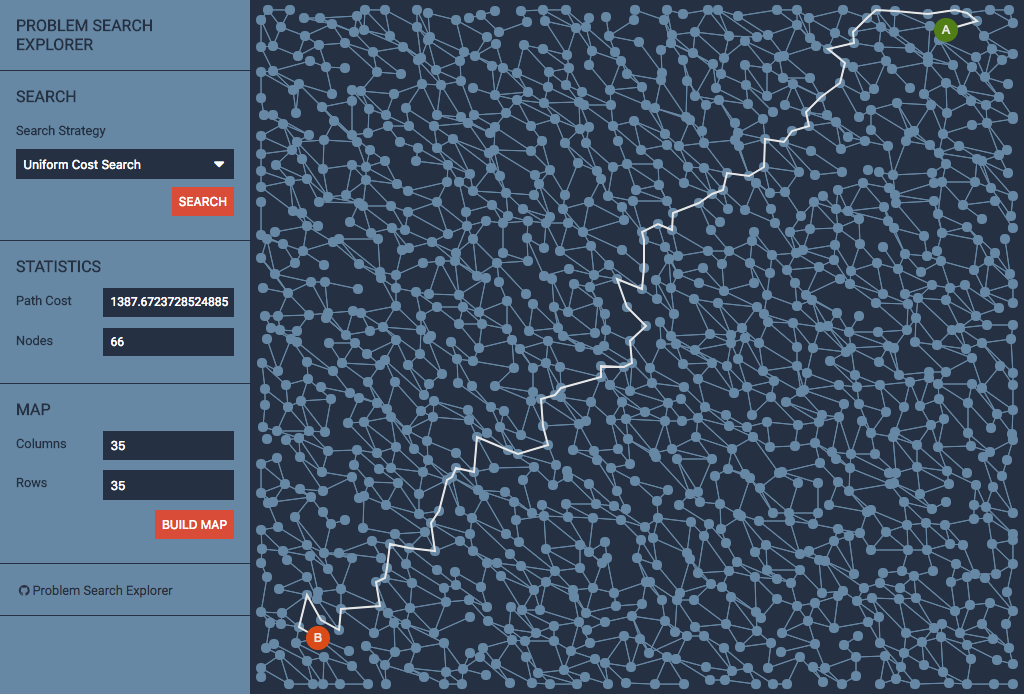
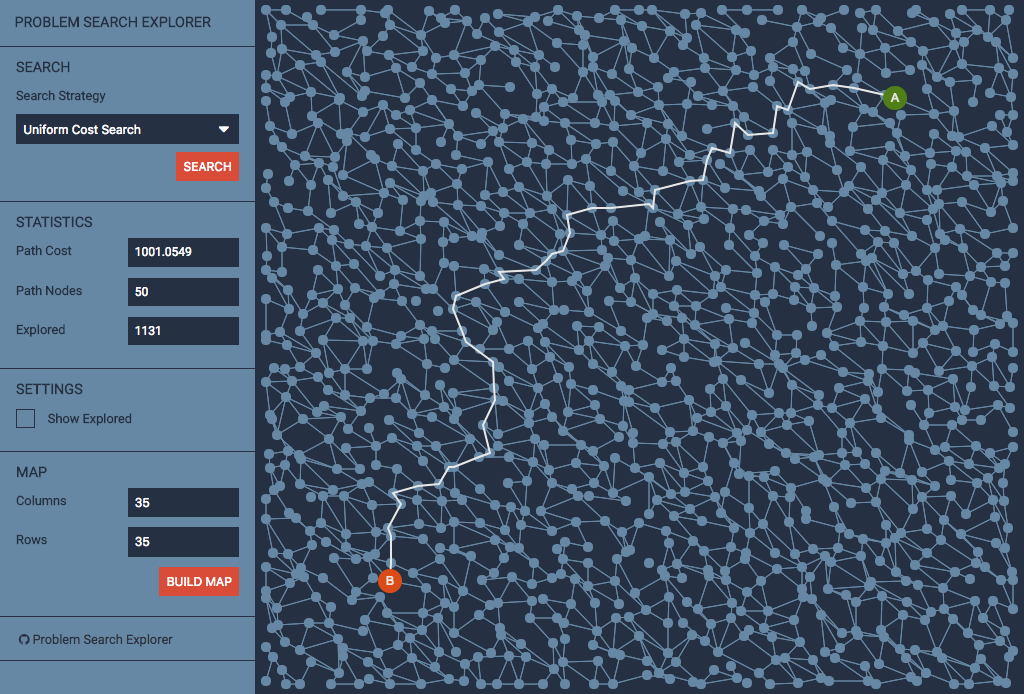
added show explored

diff --git a/src/components/SearchMenu.vue b/src/components/SearchMenu.vue
@@ -1,7 +1,12 @@
 <template>
-    <div id="menu" class="menu">
+    <div id="menu" class="menu" v-bind:class="{ 'menu--closed': isClosed }">
 
-        <h1 class="menu__header">Problem Search Explorer</h1>
+        <h1 class="menu__header">Problem Search Explorer
+            <a href="#" id="openMenu" v-on:click="isClosed = !isClosed">
+                <i class="fa fa-bars" aria-hidden="true" v-if="isClosed"></i>
+                <i class="fa fa-times" aria-hidden="true" v-else></i>
+            </a>
+        </h1>
 
         <div class="menu__section section">
             <h2 class="section__header">Search</h2>
@@ -42,7 +47,16 @@
                 <div class="form__input form__input--small">{{ stats.explored }}</div>
             </div>
         </div>
-
+        <div class="menu__section section">
+            <h2 class="section__header">Settings</h2>
+            <div class="form__row">
+                <span class="form__label">
+                    <input id="showExplored" type="checkbox" class="checkbox" v-model="showExplored"
+                           @change="onToggleExplored()">
+                    <label class="checkbox-label" for="showExplored">Show Explored</label>
+                </span>
+            </div>
+        </div>
         <div class="menu__section section">
             <h2 class="section__header">Map</h2>
             <div class="form__row">
@@ -76,12 +90,15 @@
             limit: '10'
         },
         isLimit: false,
+        showExplored: false,
         stats: {
             cost: 0,
             nodes: 0,
             explored: 0
-        }
+        },
+        isClosed: false
     }
+
     export default {
         name: 'SearchMenu',
         data: function () {
@@ -103,6 +120,9 @@
             onChangeMap: function () {
                 this.$emit('updateMap', data)
             },
+            onToggleExplored: function () {
+                this.$eventHub.$emit('toggleExplored', this.showExplored)
+            },
             addStatistic: function (solution) {
                 this.stats.cost = (Math.round(solution.cost * 10000) / 10000).toFixed(4)
                 this.stats.nodes = solution.nodes
@@ -113,9 +133,31 @@
 </script>
 
 <style scoped>
+
+    #openMenu {
+        display: block;
+        float: right;
+        cursor: pointer;
+        background: #6189A5;
+        width: 25px;
+        text-align: center;
+        color: #fff;
+        height: 25px;
+        line-height: 25px;
+        position: absolute;
+        top: -25px;
+    }
+
     .menu {
         background: #6189A5;
-        min-width: 250px;
+        min-width: 255px;
+        position: absolute;
+        width: 100%;
+        transition: all .25s ease-in-out;
+    }
+
+    .menu--closed {
+        transform: translate(0, 100%);
     }
 
     .menu__section {
@@ -172,6 +214,56 @@
         float: right;
     }
 
+    .checkbox {
+        -webkit-appearance: none;
+        -moz-appearance: none;
+        appearance: none;
+        border: none;
+        border-radius: 0;
+        font-size: 1em;
+        width: 100%;
+    }
+
+    .checkbox:checked,
+    .checkbox:not(:checked) {
+        background: transparent;
+        position: absolute;
+        visibility: hidden;
+        margin: 0;
+        padding: 0;
+    }
+
+    .checkbox + label {
+        cursor: pointer;
+    }
+
+    .checkbox:checked + label::before,
+    .checkbox:not(:checked) + label::before {
+        content: '\f00c';
+        font-family: FontAwesome;
+        color: #6189A5;
+        display: inline-block;
+        width: 17px;
+        height: 17px;
+        line-height: 17px;
+        text-align: center;
+        position: relative;
+        top: 0;
+        background: #6189A5;
+        margin-right: 1em;
+        border: 1px solid #283144;
+    }
+
+    .checkbox:hover + label::before {
+        color: rgba(255, 255, 255, .2);
+        background: rgba(40, 49, 68, .2);
+    }
+
+    .checkbox:checked + label::before {
+        color: #ffffff;
+        background: #283144;
+    }
+
     .form__label {
         font-size: 0.8em;
         line-height: 2em;
@@ -219,18 +311,32 @@
     }
 
     @media (min-width: 769px) {
+
+        #openMenu {
+            display: none;
+        }
+
+        .menu--closed {
+            transform: translate(0, 0);
+        }
+
+        .menu {
+            position: relative;
+            width: auto;
+        }
+
         .menu__header {
             padding: 1em;
-            font-size: 1em;
+            font-size: .9em;
         }
 
         .section__header {
-            margin: 0 0 .75em 0;
-            font-size: 1em;
+            margin: 0 0 .5em 0;
+            font-size: .9em;
         }
 
         .menu__section {
-            padding: 1em;
+            padding: .75em 1em;
         }
 
         .form__row {

diff --git a/src/components/SearchMap.vue b/src/components/SearchMap.vue
@@ -9,8 +9,11 @@
     let data = {
         map: null,
         canvas: null,
-        visualisation: null
+        visualisation: null,
+        showExplored: false,
+        explored: null
     }
+
     export default {
         name: 'SearchMap',
         data: function () {
@@ -42,13 +45,25 @@
                 this.$eventHub.$on('start', this.addStart)
                 this.$eventHub.$on('goal', this.addGoal)
                 this.$eventHub.$on('solution', this.addSolution)
+                this.$eventHub.$on('explored', this.addExplored)
+                this.$eventHub.$on('toggleExplored', this.onToggleExplored)
+            },
+            onToggleExplored: function (value) {
+                this.showExplored = value
+                this.visualisation.removeLayerByName('exploredLayer')
+                this.visualisation.update()
+                if (this.showExplored && this.explored) {
+                    this.addExplored(this.explored)
+                }
             },
             addNodes: function (nodes) {
+                this.explored = null
                 this.visualisation.resize({'height': this.map.offsetHeight, 'width': this.map.offsetWidth})
-                this.visualisation.removeLayerByName('startLayer')
-                this.visualisation.removeLayerByName('goalLayer')
                 this.visualisation.removeLayerByName('baseLayer')
                 this.visualisation.removeLayerByName('solutionLayer')
+                this.visualisation.removeLayerByName('exploredLayer')
+                this.visualisation.removeLayerByName('startLayer')
+                this.visualisation.removeLayerByName('goalLayer')
                 let baseLayer = new ProblemGraphVisualisation.Layer('baseLayer', {
                     'type': 'node',
                     'sorting': 0,
@@ -61,12 +76,32 @@
                 this.visualisation.addLayer(baseLayer)
                 this.visualisation.update()
             },
+            addExplored: function (nodes) {
+                this.explored = nodes
+                if (this.showExplored) {
+                    let solutionLayer = new ProblemGraphVisualisation.Layer('exploredLayer', {
+                        'type': 'text',
+                        'sorting': 1,
+                        'nodes': nodes,
+                        'nodeColor': '#e34f00',
+                        'lineColor': '#e34f00',
+                        'textColor': '#e34f00',
+                        'lineSize': 1,
+                        'nodeSize': 5
+                    })
+                    this.visualisation.addLayer(solutionLayer)
+                    this.visualisation.update()
+                } else {
+                    this.visualisation.removeLayerByName('exploredLayer')
+                    this.visualisation.update()
+                }
+            },
             addStart: function (node) {
                 this.resetSolution()
                 node.label = 'A'
                 let startLayer = new ProblemGraphVisualisation.Layer('startLayer', {
                     'type': 'text',
-                    'sorting': 3,
+                    'sorting': 4,
                     'nodes': [node],
                     'nodeColor': '#507b0f',
                     'lineColor': '#000000',
@@ -81,7 +116,7 @@
                 node.label = 'B'
                 let goalLayer = new ProblemGraphVisualisation.Layer('goalLayer', {
                     'type': 'text',
-                    'sorting': 4,
+                    'sorting': 5,
                     'nodes': [node],
                     'nodeColor': '#e34f00',
                     'lineColor': '#000000',
@@ -106,9 +141,11 @@
                 this.visualisation.update()
             },
             resetSolution: function () {
+                this.explored = null
+                this.visualisation.removeLayerByName('solutionLayer')
+                this.visualisation.removeLayerByName('exploredLayer')
                 this.visualisation.removeLayerByName('startLayer')
                 this.visualisation.removeLayerByName('goalLayer')
-                this.visualisation.removeLayerByName('solutionLayer')
                 this.visualisation.update()
             }
         }

diff --git a/src/components/Explorer.vue b/src/components/Explorer.vue
@@ -40,6 +40,7 @@
         searchStrategy: null,
         mapHasNodes: false
     }
+
     export default {
         components: {SearchMap, SearchMenu},
         name: 'Explorer',
@@ -82,6 +83,7 @@
                         'nodes': result.solution().length,
                         'explored': this.searchStrategy.explored.length
                     })
+                    this.$eventHub.$emit('explored', this.searchStrategy.explored.map((node) => node.state.node))
                 } catch (e) {
                     if (e.name === 'NoSolutionException') {
                         this.$modal.show('solution')
